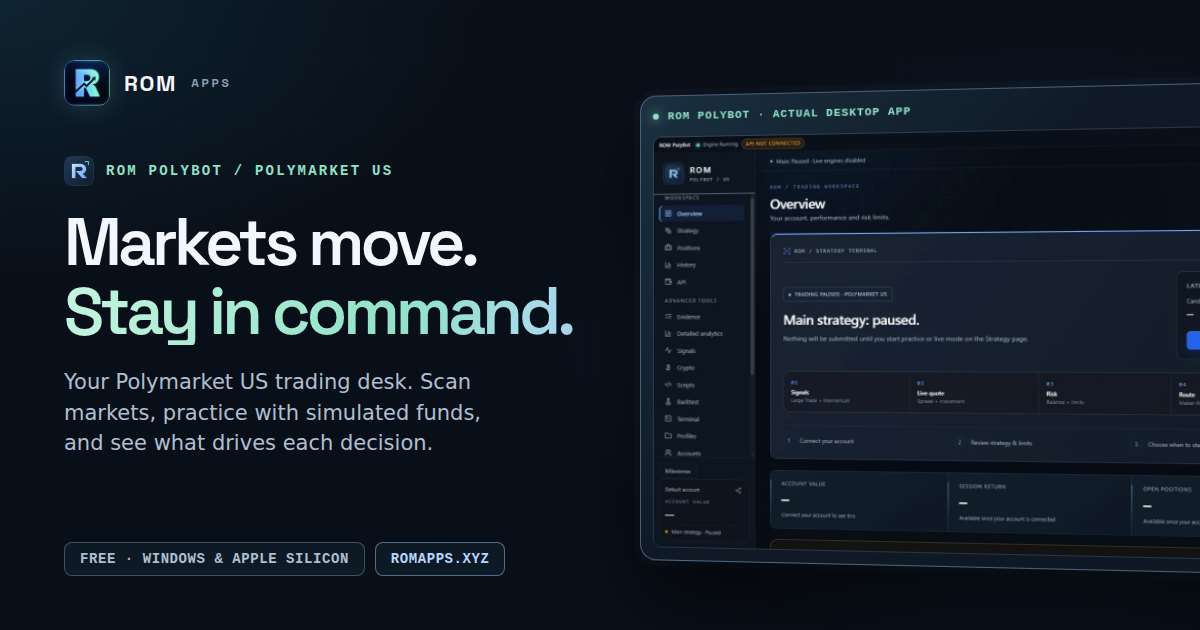
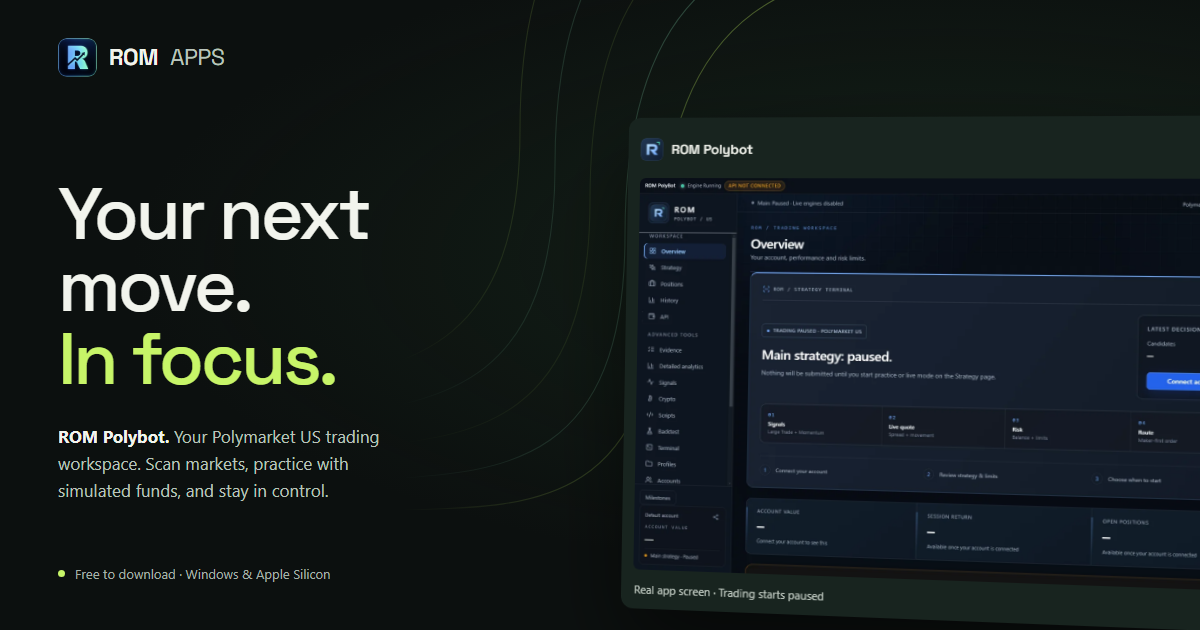
Align social preview with the ROM Apps redesign

diff --git a/scripts/og-card.html b/scripts/og-card.html
@@ -1,52 +1,47 @@
 <!doctype html>
-<!-- The 1200x630 social card for romapps.xyz. Rendered to assets/og-card.png
-     by scripts/make_og.py. Uses the site's own font, tokens and screenshot so
-     the card cannot drift from the page. Update the screenshot path when a
-     new Polybot release replaces it. -->
+<!-- 1200 x 630 social preview. Render with the site's real Polybot screenshot. -->
 <html lang="en">
 <head>
 <meta charset="utf-8">
 <style>
-  @font-face { font-family: "Space Grotesk"; src: url("../assets/fonts/space-grotesk-latin-variable.woff2") format("woff2"); font-weight: 400 700; }
-  :root { --bg: #090f19; --text: #f3f7fd; --muted: #b0bfd0; --dim: #8c9fb5; --blue: #b7d7ff; --mint: #91e2c8; --line: #afc9e129; }
-  * { box-sizing: border-box; margin: 0; }
-  html, body { width: 1200px; height: 630px; overflow: hidden; }
-  body {
-    position: relative; background: radial-gradient(ellipse 60% 70% at 88% 55%, #2f5e8e55, transparent 70%),
-      radial-gradient(ellipse 55% 60% at 0% 0%, #1a53664d, transparent 75%), var(--bg);
-    color: var(--text); font-family: "Segoe UI", system-ui, sans-serif; -webkit-font-smoothing: antialiased;
-  }
-  .grid { position: absolute; inset: 0; opacity: .3; background-image: linear-gradient(#a6d0f012 1px, transparent 1px), linear-gradient(90deg, #a6d0f012 1px, transparent 1px); background-size: 60px 60px; mask-image: linear-gradient(180deg, #000a, transparent 85%); }
-  .copy { position: absolute; left: 64px; top: 60px; width: 560px; }
-  .brand { display: flex; align-items: center; gap: 14px; font: 760 22px/1 "Space Grotesk"; letter-spacing: .075em; }
-  .brand img { width: 46px; height: 46px; border-radius: 12px; box-shadow: 0 0 25px #8acbff30; }
-  .brand span { color: var(--dim); font-size: 12px; letter-spacing: .23em; }
-  .eyebrow { margin-top: 50px; display: flex; align-items: center; gap: 12px; color: var(--mint); font: 700 14px/1 Consolas, "Liberation Mono", monospace; letter-spacing: .16em; }
-  .eyebrow img { width: 30px; height: 30px; border-radius: 8px; }
-  h1 { margin-top: 22px; font: 600 66px/1.04 "Space Grotesk"; letter-spacing: -.06em; }
-  h1 span { display: block; background: linear-gradient(110deg, #c5f5df, var(--mint) 60%, var(--blue)); -webkit-background-clip: text; background-clip: text; color: transparent; }
-  p { margin-top: 22px; max-width: 34ch; color: var(--muted); font-size: 21px; line-height: 1.45; }
-  .chips { position: absolute; left: 64px; bottom: 54px; display: flex; gap: 10px; }
-  .chips span { padding: 9px 15px; border: 1px solid #afc9e150; border-radius: 8px; background: #101b29cc; color: var(--muted); font: 600 14px/1 Consolas, "Liberation Mono", monospace; letter-spacing: .04em; }
-  .chips span:last-child { color: var(--blue); border-color: #b7d7ff70; }
-  .stage { position: absolute; left: 640px; top: 96px; width: 680px; padding: 0 12px 12px; border: 1px solid #9fc6ee68; border-radius: 16px; background: linear-gradient(135deg, #1a3040, #101a27 40%, #0e1723); box-shadow: 0 40px 90px #000a, 0 0 0 6px #9ec9ff08; transform: perspective(1600px) rotateY(-9deg); transform-origin: left center; }
-  .stage-top { display: flex; align-items: center; gap: 9px; height: 40px; color: var(--mint); font: 600 11px/1 Consolas, "Liberation Mono", monospace; letter-spacing: .08em; }
-  .stage-top i { width: 6px; height: 6px; border-radius: 50%; background: var(--mint); box-shadow: 0 0 12px var(--mint); }
-  .stage img { display: block; width: 100%; border: 1px solid #c9dffa26; border-radius: 8px; }
+  @font-face { font-family: "Space Grotesk"; src: url("../assets/fonts/space-grotesk-latin-variable.woff2") format("woff2"); font-weight: 400 700; font-display: swap; }
+  * { box-sizing: border-box; }
+  html, body { width: 1200px; height: 630px; margin: 0; overflow: hidden; }
+  body { position: relative; color: #f2f4ed; background: radial-gradient(ellipse at 79% 41%, #23432953, transparent 61%), #0c100f; font-family: "Segoe UI Variable", "Aptos", system-ui, sans-serif; -webkit-font-smoothing: antialiased; }
+  .signal { position: absolute; inset: 0; width: 1200px; height: 630px; color: #bce95f; opacity: .34; mask-image: linear-gradient(90deg, transparent 33%, #000 62%); }
+  .signal path:nth-child(2n) { stroke: #7bc8a3; }
+  .signal path:nth-child(3n) { opacity: .5; }
+  .brand { position: absolute; top: 38px; left: 58px; display: flex; align-items: center; gap: 12px; color: #f2f4ed; font: 650 23px/1 "Space Grotesk", sans-serif; letter-spacing: -.02em; }
+  .brand img { width: 39px; height: 39px; border-radius: 9px; }
+  .brand span { color: #bac4bc; font-weight: 400; }
+  .copy { position: absolute; top: 178px; left: 58px; width: 520px; }
+  h1 { max-width: 8ch; margin: 0; font: 500 73px/.99 "Space Grotesk", sans-serif; letter-spacing: -.04em; }
+  h1 span { color: #c7f568; }
+  .copy p { max-width: 37ch; margin: 28px 0 0; color: #bac4bc; font-size: 17px; line-height: 1.6; }
+  .copy p strong { color: #f2f4ed; font-weight: 650; }
+  .availability { position: absolute; bottom: 48px; left: 58px; display: flex; align-items: center; gap: 10px; color: #a5b2a9; font-size: 13px; }
+  .availability::before { content: ""; width: 7px; height: 7px; border-radius: 50%; background: #c7f568; }
+  .stage { position: absolute; left: 625px; top: 118px; width: 650px; padding: 12px 12px 11px; border-radius: 12px; background: #18241f; box-shadow: 0 42px 90px #0008; transform: perspective(1400px) rotateY(-7deg) rotateZ(1deg); transform-origin: left center; }
+  .stage-top { display: flex; align-items: center; justify-content: space-between; height: 39px; margin-bottom: 9px; font: 500 13px/1 "Space Grotesk", sans-serif; }
+  .stage-top span:first-child { display: flex; align-items: center; gap: 8px; }
+  .stage-top img { width: 23px; height: 23px; border-radius: 6px; }
+  .stage-top small { color: #a5b2a9; font-size: 11px; }
+  .stage > img { display: block; width: 100%; border-radius: 6px; }
+  .stage-bottom { padding: 12px 1px 1px; color: #bac4bc; font-size: 11px; }
 </style>
 </head>
 <body>
-  <div class="grid"></div>
+  <svg class="signal" viewBox="0 0 1200 630" fill="none" aria-hidden="true"><g stroke="currentColor" stroke-width="1.1"><path d="M195 700C195 315 660 720 660 270S1050 50 1060-100"/><path d="M160 700C160 280 625 685 625 235S1015 15 1025-100"/><path d="M125 700C125 245 590 650 590 200S980-20 990-100"/><path d="M90 700C90 210 555 615 555 165S945-55 955-100"/><path d="M55 700C55 175 520 580 520 130S910-90 920-100"/></g></svg>
+  <div class="brand"><img src="../assets/rom-icon-nav.png" alt="">ROM <span>APPS</span></div>
   <div class="copy">
-    <div class="brand"><img src="../assets/rom-icon-nav.png" alt="">ROM <span>APPS</span></div>
-    <div class="eyebrow"><img src="../assets/app-polybot-small.png" alt="">ROM POLYBOT / POLYMARKET US</div>
-    <h1>Markets move.<span>Stay in command.</span></h1>
-    <p>Your Polymarket US trading desk. Scan markets, practice with simulated funds, and see what drives each decision.</p>
+    <h1>Your next<br>move.<br><span>In focus.</span></h1>
+    <p><strong>ROM Polybot.</strong> Your Polymarket US trading workspace. Scan markets, practice with simulated funds, and stay in control.</p>
   </div>
-  <div class="chips"><span>FREE · WINDOWS &amp; APPLE SILICON</span><span>ROMAPPS.XYZ</span></div>
+  <div class="availability">Free to download · Windows &amp; Apple Silicon</div>
   <div class="stage">
-    <div class="stage-top"><i></i>ROM POLYBOT · ACTUAL DESKTOP APP</div>
+    <div class="stage-top"><span><img src="../assets/app-polybot-small.png" alt="">ROM Polybot</span><small>v2.36.0</small></div>
     <img src="../assets/rom-polybot-overview.webp" alt="">
+    <div class="stage-bottom">Real app screen · Trading starts paused</div>
   </div>
 </body>
 </html>

diff --git a/index.html b/index.html
@@ -12,14 +12,15 @@
   <meta property="og:url" content="https://romapps.xyz/">
   <meta property="og:title" content="ROM Apps — ROM Polybot &amp; ROM Nova">
   <meta property="og:description" content="Your Polymarket US trading desk. Your Solana research radar. Explore ROM Polybot and ROM Nova.">
-  <meta property="og:image" content="https://romapps.xyz/assets/og-card.png">
+  <meta property="og:image" content="https://romapps.xyz/assets/og-card.png?v=signal-3">
   <meta property="og:image:width" content="1200">
   <meta property="og:image:height" content="630">
-  <meta property="og:image:alt" content="ROM Polybot: Markets move. Stay in command. Your Polymarket US trading desk.">
+  <meta property="og:image:alt" content="ROM Apps: Your next move. In focus. ROM Polybot for Polymarket US.">
   <meta name="twitter:card" content="summary_large_image">
   <meta name="twitter:title" content="ROM Apps — ROM Polybot &amp; ROM Nova">
   <meta name="twitter:description" content="Your Polymarket US trading desk. Your Solana research radar. Explore ROM Polybot and ROM Nova.">
-  <meta name="twitter:image" content="https://romapps.xyz/assets/og-card.png">
+  <meta name="twitter:image" content="https://romapps.xyz/assets/og-card.png?v=signal-3">
+  <meta name="twitter:image:alt" content="ROM Apps: Your next move. In focus. ROM Polybot for Polymarket US.">
   <link rel="icon" type="image/x-icon" href="favicon.ico">
   <link rel="apple-touch-icon" href="apple-touch-icon.png">
   <link rel="preload" href="assets/fonts/space-grotesk-latin-variable.woff2" as="font" type="font/woff2" crossorigin>

diff --git a/scripts/make_og.py b/scripts/make_og.py
@@ -8,9 +8,9 @@ screenshots it with the Chrome or Edge you already have, in headless mode.
     python scripts/make_og.py
     CHROME="C:/path/to/chrome.exe" python scripts/make_og.py   # pick a browser
 
-Needs Pillow (pip install pillow). Social platforms crop anything far from
-1.91:1, which is why the homepage points og:image here rather than at a raw
-1440x900 screenshot.
+Needs Pillow or FFmpeg for cropping the browser screenshot. Social platforms
+crop anything far from 1.91:1, which is why the homepage points og:image
+here rather than at a raw app screenshot.
 """
 
 from __future__ import annotations
@@ -22,8 +22,6 @@ import subprocess
 import sys
 import tempfile
 from pathlib import Path
-
-from PIL import Image
 
 ROOT = Path(__file__).resolve().parent.parent
 TEMPLATE = ROOT / "scripts" / "og-card.html"
@@ -61,6 +59,24 @@ def run(browser: str, *args: str) -> str:
     return result.stdout
 
 
+def crop_card(shot: Path) -> None:
+    try:
+        from PIL import Image
+    except ImportError:
+        ffmpeg = shutil.which("ffmpeg")
+        if not ffmpeg:
+            sys.exit("Install Pillow or FFmpeg to crop the social card")
+        result = subprocess.run(
+            [ffmpeg, "-y", "-loglevel", "error", "-i", str(shot),
+             "-vf", f"crop={W}:{H}:0:0", "-frames:v", "1", str(OUT)],
+            capture_output=True, text=True,
+        )
+        if result.returncode != 0:
+            sys.exit(f"FFmpeg failed to crop the card:\n{result.stderr[-2000:]}")
+    else:
+        Image.open(shot).convert("RGB").crop((0, 0, W, H)).save(OUT, "PNG", optimize=True)
+
+
 def main() -> None:
     browser = find_browser()
     # Headless Chrome reserves part of the window for browser UI it does not
@@ -74,7 +90,7 @@ def main() -> None:
         run(browser, f"--window-size={W},{H + shortfall}",
             "--virtual-time-budget=4000",  # let the web font and screenshot load
             f"--screenshot={shot}", TEMPLATE.as_uri())
-        Image.open(shot).convert("RGB").crop((0, 0, W, H)).save(OUT, "PNG", optimize=True)
+        crop_card(shot)
     print(f"wrote {OUT.relative_to(ROOT)} ({OUT.stat().st_size:,} bytes) with "
           f"{Path(browser).name}; page area was {shortfall}px short of the window")
 
